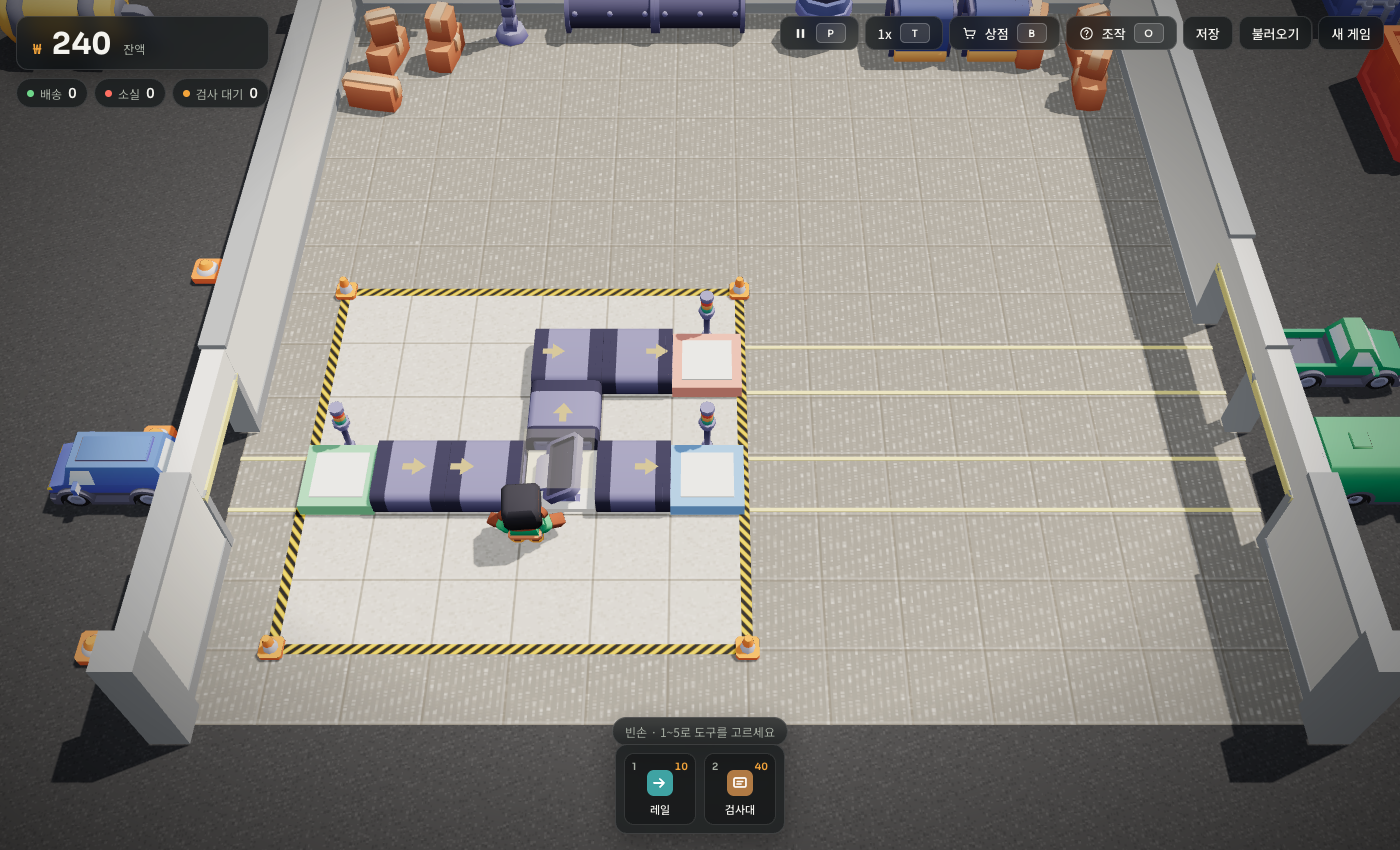
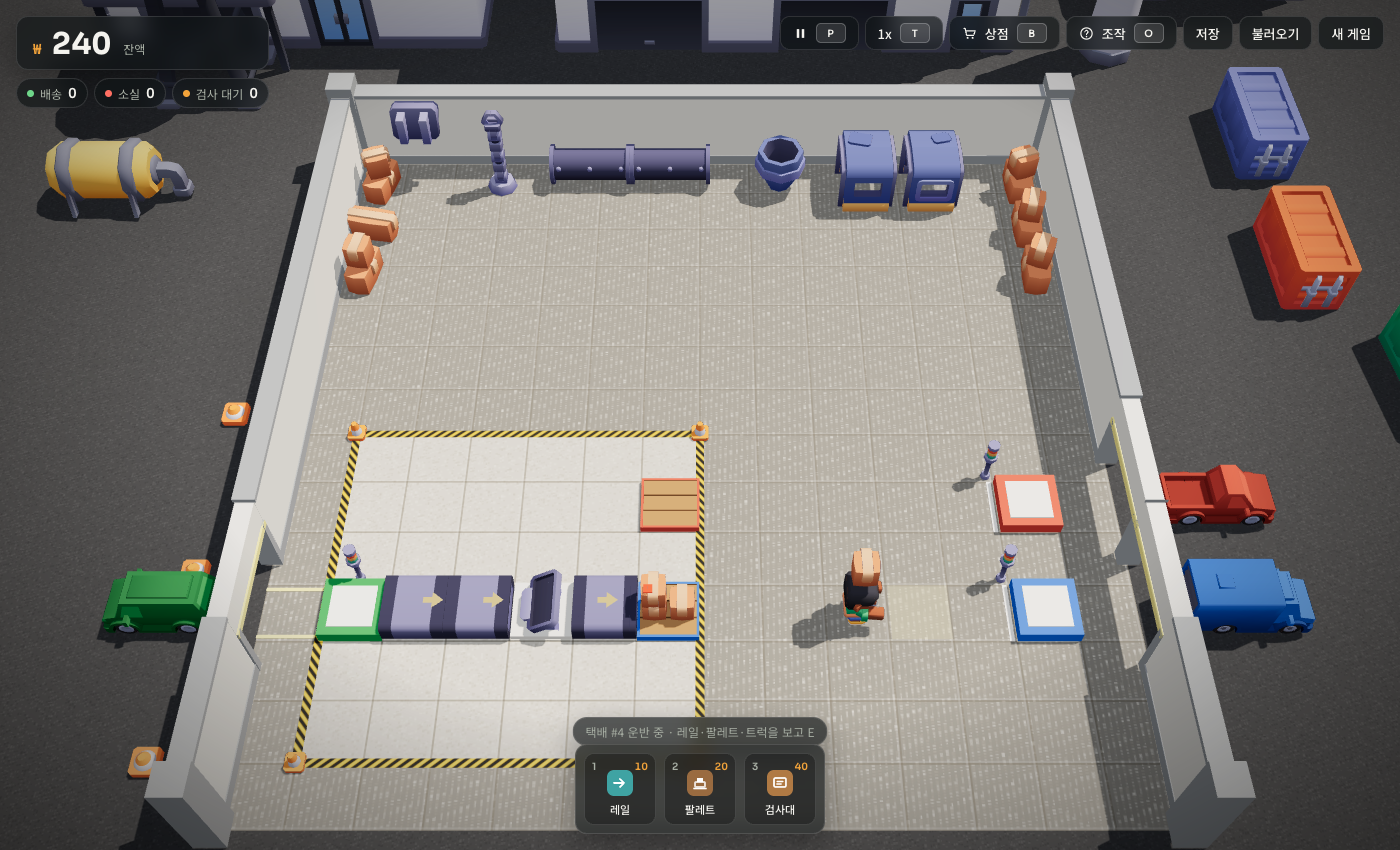
docs(design): 3D prototype follows spec 10 (pallets, truck docks, whole-building walking)
- Pallet cells (blue/red, pile max 6) at (5,2)/(5,4); rails feed into the pile, worker picks/puts with E
- Outlet/return docks moved to truck docks at (11,2)/(11,4) by the east doors; stop lines, no pallet lanes
- Worker walks the whole 12x12 (locked floor included); pallet/table/splitter/scanner block
- 6-slot hotbar (rail, fast, pallet, table, splitter, scanner); R cycles pallet colour
- Vehicles tinted to their dock colour; spec colours rendered as sRGB
- #demo matches the Unity demo scene; refreshed mockup screenshots
- Spec 3.1 now points to section 10 for dock positions

diff --git a/docs/design/prototype/parcel-factory-3d.html b/docs/design/prototype/parcel-factory-3d.html
@@ -135,9 +135,10 @@
     </div>
     <div class="panel help" id="help" hidden>
       <div><span class="k"><span class="key">W</span><span class="key">A</span><span class="key">S</span><span class="key">D</span></span>이동 · <span class="k"><span class="key">E</span></span><b>집기 · 놓기 · 설치 · 검사</b> · <span class="k"><span class="key">X</span></span>해체</div>
-      <div><span class="k"><span class="key">1</span>~<span class="key">5</span></span>도구 선택 · <span class="k"><span class="key">R</span></span>방향 · <span class="k"><span class="key">Q</span></span>빈손 · <span class="k"><span class="key">Esc</span></span>닫기</div>
-      <div>검사대 위 택배는 검사 전까지 멈춥니다. <b>정상은 출고구</b>, <b>불량은 반품구</b>로 보내세요.</div>
-      <div>입고 3초마다 1개 · 배송 +15 · 해체 2초 후 설치비 80% 환불</div>
+      <div><span class="k"><span class="key">1</span>~<span class="key">6</span></span>도구 선택 · <span class="k"><span class="key">R</span></span>방향·팔레트 색 · <span class="k"><span class="key">Q</span></span>빈손 · <span class="k"><span class="key">Esc</span></span>닫기</div>
+      <div>레일 끝 <b>팔레트</b>에 택배가 최대 6개 쌓입니다. 팔레트에서 집어 동쪽 벽의 트럭까지 나르세요 — <b>정상은 파랑 출고 트럭</b>, <b>불량(거부)은 빨강 반품 트럭</b>.</div>
+      <div>검사대 위 택배는 검사 전까지 멈춥니다. 잠긴 구역도 걸어 다닐 수 있지만 설치는 산 부지에만 됩니다. 12×12까지 넓히면 레일을 트럭에 바로 붙일 수 있습니다.</div>
+      <div>입고 3초마다 1개 · 배송 +15 · 해체 2초 후 설치비 80% 환불 · 더미가 있는 팔레트는 해체 불가</div>
       <div class="fileRow"><button class="btn" id="saveBtn2">저장</button><button class="btn" id="loadBtn2">불러오기</button><button class="btn" id="newBtn2">새 게임</button></div>
     </div>
     <div class="panel drawer" id="shop" hidden></div>
@@ -165,7 +166,7 @@
           <div class="row"><span>배송 방법</span><b id="iMethod"></b></div>
           <div class="row scale"><span>저울 실측</span><b id="iScale"></b></div>
         </div>
-        <div class="sub">표기와 실측이 다르면 거부하세요. 거부한 택배는 반품구로 보내야 합니다.</div>
+        <div class="sub">표기와 실측이 다르면 거부하세요. 거부한 택배는 빨강 반품 트럭으로 보내야 합니다.</div>
         <div class="row-btns"><button class="btn danger" id="iReject">거부</button><button class="btn ok" id="iApprove">승인</button></div>
       </div>
     </div>
@@ -190,13 +191,16 @@
   // ---------------- 게임 로직 (코어와 동일 규칙) ----------------
   const DX = { N: 0, E: 1, S: 0, W: -1 }, DY = { N: 1, E: 0, S: -1, W: 0 }, ORDER = ['N', 'E', 'S', 'W'];
   const turnR = d => ORDER[(ORDER.indexOf(d) + 1) % 4], turnL = d => ORDER[(ORDER.indexOf(d) + 3) % 4], opp = d => ORDER[(ORDER.indexOf(d) + 2) % 4];
-  const COST = { conveyor: 10, fast: 25, splitter: 60, table: 40, scanner: 120 };
-  const NAMES = { conveyor: '레일', fast: '고속 레일', splitter: '분배기', table: '검사대', scanner: '자동 검사기', inlet: '입고구', outlet: '출고구', rdock: '반품구', empty: '빈 칸', locked: '잠긴 칸' };
+  const COST = { conveyor: 10, fast: 25, pallet: 20, splitter: 60, table: 40, scanner: 120 };
+  const NAMES = { conveyor: '레일', fast: '고속 레일', pallet: '팔레트', splitter: '분배기', table: '검사대', scanner: '자동 검사기', inlet: '입고구', outlet: '출고 트럭', rdock: '반품 트럭', empty: '빈 칸', locked: '잠긴 칸' };
   const ARROWS = { N: '↑', E: '→', S: '↓', W: '←' };
-  const SLOTS = ['conveyor', 'fast', 'table', 'splitter', 'scanner'];
-  const SW = { conveyor: '#3fa3a3', fast: '#c25a66', table: '#b07a44', splitter: '#7a62c0', scanner: '#4e86e8' };
+  const SLOTS = ['conveyor', 'fast', 'pallet', 'table', 'splitter', 'scanner'];
+  const SW = { conveyor: '#3fa3a3', fast: '#c25a66', pallet: '#9a6b40', table: '#b07a44', splitter: '#7a62c0', scanner: '#4e86e8' };
+  const PALLET_CAP = 6, OUTLET_X = 11, RDOCK_X = 11; // 스펙 10.1·10.2
+  const KIND_OF_DIR = { E: 'blue', W: 'red' }, KIND_LABEL = { blue: '파랑', red: '빨강' }; // 팔레트 도구: East = 파랑, West = 빨강
+  const dirLabel = (type, dir) => type === 'pallet' ? KIND_LABEL[KIND_OF_DIR[dir]] : ARROWS[dir];
   const isTrack = c => ['conveyor', 'fast', 'splitter', 'inlet', 'table', 'scanner'].includes(c.type);
-  const isBuilding = c => ['conveyor', 'fast', 'splitter', 'table', 'scanner'].includes(c.type);
+  const isBuilding = c => ['conveyor', 'fast', 'splitter', 'table', 'scanner', 'pallet'].includes(c.type);
   const isDock = t => t === 'outlet' || t === 'rdock';
   const inBounds = (x, y) => x >= 0 && y >= 0 && x < 12 && y < 12;
   const CATALOG = [
@@ -207,16 +211,19 @@
     { id: 'splitter', name: '분배기', sub: '좌·우로 번갈아 보냅니다 · 4방향', price: 300, splitter: true }, { id: 'scanner', name: '자동 검사기', sub: '지나가면 바로 판정 · 4방향', price: 250, scanner: true },
   ];
   function cell(type, dir) { return { type, dir: dir || 'E', demolishing: false, remain: 0, toggle: false, occ: -1 }; }
+  function palletCell(kind) { const c = cell('pallet', kind === 'red' ? 'W' : 'E'); c.kind = kind; c.pile = []; return c; } // 더미: 맨 위 = 배열 끝
   function newGame() {
     const cells = [];
     for (let y = 0; y < 12; y++) { cells.push([]); for (let x = 0; x < 12; x++) cells[y].push(cell((x < 6 && y < 6) ? 'empty' : 'locked')); }
-    cells[2][0] = cell('inlet'); cells[2][5] = cell('outlet'); cells[4][5] = cell('rdock');
+    cells[2][0] = cell('inlet'); cells[2][OUTLET_X] = cell('outlet'); cells[4][RDOCK_X] = cell('rdock'); // 트럭 도크는 동쪽 벽 바로 안쪽, 잠겨 있어도 처음부터 존재
+    cells[2][5] = palletCell('blue'); cells[4][5] = palletCell('red'); // 시작 팔레트 (옛 출고구·반품구 자리)
     return { cells, packages: [], money: 100, unlocked: 6, purchased: {}, owned: { 'conveyor:E': true }, splitter: false, table: true, scanner: false, speed: 1, paused: false, timer: 0, nextId: 1, delivered: 0, lost: 0, worker: { x: 2.5, y: 4, facing: 'S', carrying: null } };
   }
-  function demoLayout(g) { // #demo — 시안 확인용 샘플 배치
+  function demoLayout(g) { // #demo — 시안 확인용 샘플 배치 (Unity 데모 장면과 같은 구성)
     g.cells[2][1] = cell('conveyor', 'E'); g.cells[2][2] = cell('conveyor', 'E'); g.cells[2][3] = cell('table', 'E'); g.cells[2][4] = cell('conveyor', 'E');
-    g.cells[3][3] = cell('conveyor', 'N'); g.cells[4][3] = cell('conveyor', 'E'); g.cells[4][4] = cell('conveyor', 'E');
-    g.worker = { x: 2.6, y: 1.2, facing: 'N', carrying: null }; g.money = 240; return g;
+    const pkg = (inspected, bad) => ({ id: g.nextId++, x: 0, y: 0, progress: 0, heading: 'E', entry: 'E', bad, inspected, rejected: inspected && bad, label: makeLabel(bad) });
+    g.cells[2][5].pile.push(pkg(true, false), pkg(true, false), pkg(true, true));
+    g.worker = { x: 8.0, y: 2.0, facing: 'E', carrying: pkg(true, false) }; g.money = 240; return g;
   }
   let S = location.hash === '#demo' ? demoLayout(newGame()) : newGame();
   const UI = { tool: null, slot: -1, lastDir: {}, pending: null, inspect: null, toastUntil: 0, dirty: new Set(), rebuildAll: true, saved: null };
@@ -269,6 +276,10 @@
       if (!inBounds(nx, ny)) { remove(i, false); i--; toast('택배가 레일 밖으로 떨어졌습니다', 'bad'); continue; }
       const next = S.cells[ny][nx];
       if (isDock(next.type)) { deliver(p, next.type); remove(i, true); i--; continue; }
+      if (next.type === 'pallet') { // 흐름에서 빠져 더미에 쌓인다(검사 상태 유지). 가득 차거나 해체 중이면 대기
+        if (next.demolishing || next.pile.length >= PALLET_CAP) continue;
+        c.occ = -1; S.packages.splice(i, 1); i--; p.progress = 0; next.pile.push(p); continue;
+      }
       if (!isTrack(next) || next.type === 'inlet') { remove(i, false); i--; toast('택배가 레일 밖으로 떨어졌습니다', 'bad'); continue; }
       if (next.occ >= 0 || next.demolishing) continue;
       c.occ = -1; next.occ = p.id; p.x = nx; p.y = ny; p.progress = 0; p.entry = p.heading; p.heading = headingFor(next, p.heading);
@@ -283,8 +294,8 @@
     }
   }
   const WALK_SPEED = 3.4, WORKER_R = 0.28; // 칸/초, 충돌 반지름(칸)
-  const walkableCell = c => c.type !== 'locked' && c.type !== 'table' && c.type !== 'scanner' && c.type !== 'splitter'; // 레일·도크 위는 걸어 다닐 수 있다
-  const walkableAt = (px, py) => { const n = S.unlocked; if (px < -0.5 + WORKER_R || py < -0.5 + WORKER_R || px > n - 0.5 - WORKER_R || py > n - 0.5 - WORKER_R) return false; for (const dx of [-WORKER_R, WORKER_R]) for (const dy of [-WORKER_R, WORKER_R]) { const cx = Math.round(px + dx), cy = Math.round(py + dy); if (!inBounds(cx, cy) || !walkableCell(S.cells[cy][cx])) return false; } return true; };
+  const walkableCell = c => c.type !== 'table' && c.type !== 'scanner' && c.type !== 'splitter' && c.type !== 'pallet'; // 레일·도크·잠긴 바닥 위는 걸어 다닐 수 있다 (스펙 10.3)
+  const walkableAt = (px, py) => { const n = 12; /* 경계 = 건물 안 격자 전체 */ if (px < -0.5 + WORKER_R || py < -0.5 + WORKER_R || px > n - 0.5 - WORKER_R || py > n - 0.5 - WORKER_R) return false; for (const dx of [-WORKER_R, WORKER_R]) for (const dy of [-WORKER_R, WORKER_R]) { const cx = Math.round(px + dx), cy = Math.round(py + dy); if (!inBounds(cx, cy) || !walkableCell(S.cells[cy][cx])) return false; } return true; };
   function moveWorker(vx, vy, dt) { // 눌린 방향으로 부드럽게 이동, 축별로 따로 충돌 처리
     const w = S.worker; const len = Math.hypot(vx, vy); if (len < 1e-6) return false;
     vx /= len; vy /= len; const step = WALK_SPEED * dt;
@@ -302,7 +313,12 @@
     const w = S.worker, f = facingTile();
     if (!inBounds(f.x, f.y)) return 'nofloor';
     const fc = S.cells[f.y][f.x];
-    if (w.carrying) { if (isDock(fc.type)) return 'deliver'; if (isTrack(fc) && fc.occ < 0 && !fc.demolishing) return 'put'; return 'cannotput'; }
+    if (w.carrying) {
+      if (isDock(fc.type)) return 'deliver';
+      if (fc.type === 'pallet' && !fc.demolishing) return fc.pile.length < PALLET_CAP ? 'palletput' : 'palletfull';
+      if (isTrack(fc) && fc.occ < 0 && !fc.demolishing) return 'put'; return 'cannotput';
+    }
+    if (fc.type === 'pallet' && fc.pile.length > 0) return 'palletpick';
     const pi = packageAt(f.x, f.y);
     if (pi >= 0) return (fc.type === 'table' && !S.packages[pi].inspected) ? 'inspect' : 'pick';
     if (!UI.tool) return 'notool';
@@ -321,10 +337,13 @@
       case 'put': { const p = w.carrying; p.x = f.x; p.y = f.y; p.progress = 0; p.heading = headingFor(fc, fc.dir); p.entry = p.heading; fc.occ = p.id; S.packages.push(p); w.carrying = null; if (fc.type === 'scanner' && !p.inspected) { p.inspected = true; p.rejected = p.bad; } break; }
       case 'inspect': UI.inspect = S.packages[packageAt(f.x, f.y)]; showInspect(); break;
       case 'pick': { const pi = packageAt(f.x, f.y); const p = S.packages[pi]; S.packages.splice(pi, 1); fc.occ = -1; w.carrying = p; break; }
-      case 'place': S.money -= COST[UI.tool.type]; S.cells[f.y][f.x] = cell(UI.tool.type, UI.tool.dir); UI.dirty.add(f.x + ',' + f.y); break;
+      case 'palletpick': w.carrying = fc.pile.pop(); break;
+      case 'palletput': { const p = w.carrying; p.progress = 0; fc.pile.push(p); w.carrying = null; break; }
+      case 'palletfull': toast('팔레트가 가득 찼습니다'); break;
+      case 'place': S.money -= COST[UI.tool.type]; S.cells[f.y][f.x] = UI.tool.type === 'pallet' ? palletCell(KIND_OF_DIR[UI.tool.dir]) : cell(UI.tool.type, UI.tool.dir); UI.dirty.add(f.x + ',' + f.y); break;
       case 'nofloor': toast('바닥이 없는 곳입니다'); break;
       case 'cannotput': toast('여기에는 내려놓을 수 없습니다'); break;
-      case 'notool': toast('도구를 고르세요 (1~5)'); break;
+      case 'notool': toast('도구를 고르세요 (1~6)'); break;
       case 'standing': toast('서 있는 자리에는 놓을 수 없습니다'); break;
       case 'locked': toast('아직 사지 않은 부지입니다 · 상점에서 확장'); break;
       case 'occupied': toast('이미 무언가 있습니다'); break;
@@ -336,8 +355,9 @@
     const c = S.cells[f.y][f.x];
     if (!isBuilding(c)) return toast('해체할 수 있는 부품이 아닙니다');
     if (c.demolishing) return toast('이미 해체 중입니다');
+    if (c.type === 'pallet' && c.pile.length > 0) return toast('팔레트를 먼저 비우세요');
     UI.pending = { x: f.x, y: f.y };
-    $('dText').textContent = NAMES[c.type] + ' ' + ARROWS[c.dir] + ' 를 해체합니다.';
+    $('dText').textContent = NAMES[c.type] + ' ' + (c.type === 'pallet' ? KIND_LABEL[c.kind] : ARROWS[c.dir]) + ' 를 해체합니다.';
     $('dRefund').textContent = '+' + Math.round(COST[c.type] * 0.8);
     $('demolish').hidden = false;
   }
@@ -354,6 +374,7 @@
     if (type === 'table') return S.table ? ORDER.slice() : [];
     if (type === 'splitter') return S.splitter ? ORDER.slice() : [];
     if (type === 'scanner') return S.scanner ? ORDER.slice() : [];
+    if (type === 'pallet') return ['E', 'W']; // 시작부터 보유: 파랑(E)·빨강(W)
     return ORDER.filter(d => S.owned[type + ':' + d]);
   }
   const availableSlots = () => SLOTS.filter(t => ownedDirs(t).length > 0);
@@ -377,6 +398,7 @@
     conveyor: '<svg viewBox="0 0 16 16"><path d="M2 8h9M8 4l4 4-4 4" fill="none" stroke="#fff" stroke-width="2" stroke-linecap="round" stroke-linejoin="round"/></svg>',
     fast: '<svg viewBox="0 0 16 16"><path d="M1 8h6M6 4l4 4-4 4M8 4l4 4-4 4" fill="none" stroke="#fff" stroke-width="2" stroke-linecap="round" stroke-linejoin="round"/></svg>',
     table: '<svg viewBox="0 0 16 16"><rect x="2" y="3" width="12" height="9" rx="1.5" fill="none" stroke="#fff" stroke-width="1.8"/><path d="M5 6.5h6M5 9h4" stroke="#fff" stroke-width="1.6" stroke-linecap="round"/></svg>',
+    pallet: '<svg viewBox="0 0 16 16"><rect x="3" y="7" width="10" height="5" rx="1" fill="none" stroke="#fff" stroke-width="1.6"/><path d="M2 13.5h12" stroke="#fff" stroke-width="1.6" stroke-linecap="round"/><rect x="5" y="3" width="6" height="4" rx="0.8" fill="#fff"/></svg>',
     splitter: '<svg viewBox="0 0 16 16"><path d="M2 8h5l4-4M7 8l4 4" fill="none" stroke="#fff" stroke-width="2" stroke-linecap="round" stroke-linejoin="round"/></svg>',
     scanner: '<svg viewBox="0 0 16 16"><path d="M3 12V5a2 2 0 0 1 2-2h6a2 2 0 0 1 2 2v7" fill="none" stroke="#fff" stroke-width="1.8"/><path d="M5 8h6" stroke="#ff6b6b" stroke-width="2" stroke-linecap="round"/></svg>',
   };
@@ -388,8 +410,8 @@
       const on = UI.slot === i && UI.tool;
       const b = document.createElement('button'); b.className = 'slot' + (on ? ' on' : '');
       const dirs = ownedDirs(type);
-      b.innerHTML = '<span class="k">' + (i + 1) + '</span><span class="c">' + COST[type] + '</span><span class="ico" style="background:' + SW[type] + '">' + ICONS[type] + '</span><span>' + NAMES[type] + '</span><span class="d">' + (on ? ARROWS[UI.tool.dir] : (dirs.length > 1 ? 'R' : ARROWS[dirs[0]])) + '</span>';
-      b.title = NAMES[type] + ' · ' + (dirs.length > 1 ? 'R로 방향 전환' : '방향 ' + ARROWS[dirs[0]]);
+      b.innerHTML = '<span class="k">' + (i + 1) + '</span><span class="c">' + COST[type] + '</span><span class="ico" style="background:' + SW[type] + '">' + ICONS[type] + '</span><span>' + NAMES[type] + '</span><span class="d">' + (on ? dirLabel(type, UI.tool.dir) : (dirs.length > 1 ? 'R' : dirLabel(type, dirs[0]))) + '</span>';
+      b.title = NAMES[type] + ' · ' + (type === 'pallet' ? 'R로 파랑/빨강 전환' : dirs.length > 1 ? 'R로 방향 전환' : '방향 ' + ARROWS[dirs[0]]);
       b.addEventListener('click', () => selectSlot(i)); bar.appendChild(b);
     });
   }
@@ -409,7 +431,7 @@
   $('iApprove').addEventListener('click', () => { if (UI.inspect) { UI.inspect.inspected = true; UI.inspect.rejected = false; } UI.inspect = null; $('inspect').hidden = true; });
   $('iReject').addEventListener('click', () => { if (UI.inspect) { UI.inspect.inspected = true; UI.inspect.rejected = true; } UI.inspect = null; $('inspect').hidden = true; });
   $('dCancel').addEventListener('click', () => { UI.pending = null; $('demolish').hidden = true; });
-  $('dConfirm').addEventListener('click', () => { if (UI.pending) { const c = S.cells[UI.pending.y][UI.pending.x]; if (isBuilding(c)) { c.demolishing = true; c.remain = 2; UI.dirty.add(UI.pending.x + ',' + UI.pending.y); } } UI.pending = null; $('demolish').hidden = true; });
+  $('dConfirm').addEventListener('click', () => { if (UI.pending) { const c = S.cells[UI.pending.y][UI.pending.x]; if (isBuilding(c) && !(c.type === 'pallet' && c.pile.length)) { c.demolishing = true; c.remain = 2; UI.dirty.add(UI.pending.x + ',' + UI.pending.y); } } UI.pending = null; $('demolish').hidden = true; });
   $('pauseBtn').addEventListener('click', () => { S.paused = !S.paused; });
   $('speedBtn').addEventListener('click', () => { S.speed = S.speed === 1 ? 2 : 1; });
   $('shopBtn').addEventListener('click', () => { $('shop').hidden = !$('shop').hidden; $('help').hidden = true; renderShop(); });
@@ -431,7 +453,7 @@
     if (KEYDIR[k]) { e.preventDefault(); held.add(k); return; }
     if (k === 'e') act(); else if (k === 'x') askDemolish(); else if (k === 'q') clearTool(); else if (k === 'r') rotateTool();
     else if (k === 'p') $('pauseBtn').click(); else if (k === 't') $('speedBtn').click(); else if (k === 'b') $('shopBtn').click(); else if (k === 'o') $('helpBtn').click();
-    else if (/^[1-5]$/.test(k)) selectSlot(parseInt(k, 10) - 1);
+    else if (/^[1-6]$/.test(k)) selectSlot(parseInt(k, 10) - 1);
   });
 
   // ---------------- 3D ----------------
@@ -446,10 +468,10 @@
   const scene = new THREE.Scene(); scene.background = new THREE.Color(0x1d2127); scene.fog = new THREE.Fog(0x1d2127, 24, 46);
   const camera = new THREE.PerspectiveCamera(36, 1, 0.1, 100);
   const camDir = new THREE.Vector3(0, 14.5, -10.5).normalize(), camPos = new THREE.Vector3(), camTarget = new THREE.Vector3(), camLook = new THREE.Vector3();
-  function frameLot(snap) { // 해금된 부지 + 도크 차량이 화면에 들어오도록 카메라를 잡는다
-    const n = S.unlocked, a = camera.aspect || 1, t = Math.tan(camera.fov * Math.PI / 360);
-    const hw = n / 2 + 5.0, hv = n / 2 + 2.8, dist = Math.max(hw / (t * a), hv / t) * 1.04;
-    camTarget.set((W(0) + W(n - 1)) / 2 * 0.2, 0, (Z(0) + Z(n - 1)) / 2 + 0.5); camPos.copy(camTarget).addScaledVector(camDir, dist);
+  function frameLot(snap) { // 건물 안 12×12 전체(작업자는 잠긴 구역도 걷는다) + 양쪽 벽 밖 차량이 화면에 들어오도록 카메라를 잡는다
+    const n = 12, a = camera.aspect || 1, t = Math.tan(camera.fov * Math.PI / 360);
+    const hw = n / 2 + 3.4, hv = n / 2 + 1.2, dist = Math.max(hw / (t * a), hv / t) * 1.04;
+    camTarget.set(0, 0, 0.2); camPos.copy(camTarget).addScaledVector(camDir, dist);
     scene.fog.near = dist + 6; scene.fog.far = dist + 30;
     if (snap) { camera.position.copy(camPos); camLook.copy(camTarget); camera.lookAt(camLook); }
   }
@@ -458,6 +480,7 @@
   sun.shadow.mapSize.set(4096, 4096); sun.shadow.camera.left = -15; sun.shadow.camera.right = 15; sun.shadow.camera.top = 15; sun.shadow.camera.bottom = -15; sun.shadow.camera.near = 1; sun.shadow.camera.far = 50; sun.shadow.bias = -0.0004; sun.shadow.normalBias = 0.03; sun.shadow.radius = 2;
   scene.add(sun);
   const W = gx => 5.5 - gx, Z = gy => gy - 5.5;   // 격자 → 월드. 카메라가 -z에서 +z를 보므로 화면 오른쪽 = -x. 동쪽(gx+)이 오른쪽이 되도록 x를 뒤집는다. 북쪽(gy+) = +z = 화면 위
+  const srgb = hex => new THREE.Color(hex).convertSRGBToLinear(); // 스펙 색(sRGB hex)을 그대로 보이게
   const lit = (color, o) => new THREE.MeshStandardMaterial(Object.assign({ color, roughness: 0.9, metalness: 0 }, o || {}));
   const PALETTE = { grass: 0x5f9c48, leafsGreen: 0x4e9640, leafsDark: 0x3c7d4b, wood: 0xb98a5c, woodDark: 0x8c5f40, woodBark: 0x8a5a3c, woodBarkDark: 0x7d5238, dirt: 0xa27c5a, woodInner: 0xe6d0ad, _defaultMat: 0xd8d3c6 }; // nature-kit 민트 팔레트를 공장 톤에 맞게 재채색
   function shadowify(obj) { obj.traverse(o => { if (o.isMesh) { o.castShadow = true; o.receiveShadow = true; if (o.material && o.material.isMeshBasicMaterial) { const b = o.material, c = PALETTE[b.name]; o.material = new THREE.MeshStandardMaterial({ color: c !== undefined ? c : b.color, map: b.map, vertexColors: c !== undefined ? false : b.vertexColors, roughness: 0.95, metalness: 0 }); } if (o.material && o.material.map) o.material.map.encoding = THREE.sRGBEncoding; } }); return obj; }
@@ -524,24 +547,38 @@
     prop('screen-hanging-wide', 1.0, Math.PI, 5.6, HALF - 0.5).position.y = 1.0;
     // 임대 전 구역에 쌓인 재고 (12×12 밖 여백·잠긴 영역 느낌)
     let seed = 7; const rnd = () => { seed = (seed * 9301 + 49297) % 233280; return seed / 233280; };
-    for (const [x, z] of [[-6.2, 5.6], [-5.2, 5.7], [-6.1, 4.6], [6.1, 5.5], [6.2, 4.4], [5.1, 5.6]]) { const k = ['box-large', 'box-wide', 'box-long'][Math.floor(rnd() * 3)]; prop(k, 0.9, rnd() * 0.6 - 0.3, x, z); if (rnd() < 0.5) prop('box-small', 0.9, rnd() * 1.5, x, z).position.y = 0.5; }
+    for (const [x, z] of [[-6.4, 6.1], [-6.4, 4.9], [-6.4, 3.7], [6.4, 6.1], [6.4, 4.9], [6.4, 3.7]]) { const k = ['box-large', 'box-wide', 'box-long'][Math.floor(rnd() * 3)]; prop(k, 0.9, rnd() * 0.6 - 0.3, x, z); if (rnd() < 0.5) prop('box-small', 0.9, rnd() * 1.5, x, z).position.y = 0.5; }
     // 야드: 컨테이너, 급수탑, 굴뚝, 멀리 건물 실루엣
     prop('shipping-container-a', 3.0, 0, -11.5, 4.0); prop('shipping-container-b', 3.0, 0, -11.5, 7.5); prop('shipping-container-c', 3.0, 0.08, -13.2, 1.2);
     prop('water-tower', 2.6, 0, 10.5, 9.5); prop('detail-tank', 3.0, 0, 11.5, 6.0); prop('chimney-medium', 2.6, 0, -9.0, 10.5);
     prop('building-a', 5.0, 0, -2.0, 13.5); prop('building-c', 5.0, 0, 8.0, 14.2); prop('building-h', 5.0, 0, -10.0, 14.0);
     for (let i = 0; i < 6; i++) prop('cone-flat', 0.9, 0, HALF + 1.2 + i * 0.0, -HALF + 1 + i * 1.6).visible = i % 2 === 0;
-    // 도크: 슬래브 + 출입구 밖에 세워 둔 차량 + 도크→출입구 차선
-    dock(0, 2, 0x3fa35a, 'van', HALF + 1.5, Z(2), Math.PI / 2);
-    dock(5, 2, 0x3d7be0, 'delivery', -HALF - 1.6, Z(2), -Math.PI / 2);
-    dock(5, 4, 0xd95a4a, 'truck', -HALF - 1.6, Z(4), -Math.PI / 2);
+    // 도크: 슬래브 + 출입구 밖에 세워 둔 차량(차체 색 = 도크 색). 입고구만 출입구까지 차선, 트럭 도크는 서쪽 가장자리에 흰 정지선
+    dock(0, 2, 0x3fa35a, 'van', HALF + 1.5, Z(2), Math.PI / 2, true);
+    dock(OUTLET_X, 2, 0x3d7be0, 'delivery', -HALF - 1.6, Z(2), -Math.PI / 2, false);
+    dock(RDOCK_X, 4, 0xd95a4a, 'truck', -HALF - 1.6, Z(4), -Math.PI / 2, false);
   }
-  function dock(gx, gy, color, vehicle, vx, vz, vyaw) {
-    const slab = box(1, 0.22, 1, lit(color, { roughness: 0.6 }), W(gx), 0.11, Z(gy)); scene.add(slab);
+  function tintVehicle(v, color) { // 가장 큰 메시(차체)의 재질을 복제해 도크 색을 입힌다
+    let best = null, bestN = -1;
+    v.traverse(o => { if (o.isMesh && o.geometry && o.geometry.attributes.position) { const n = o.geometry.attributes.position.count; if (n > bestN) { bestN = n; best = o; } } });
+    if (!best) return; const m = best.material.clone(); m.color = srgb(color);
+    const img = m.map && m.map.image; // 색 지도를 흑백으로 바꿔야 원래 차체 색과 섞이지 않는다
+    if (img && img.width) { try {
+      const cv = document.createElement('canvas'); cv.width = img.width; cv.height = img.height; const g = cv.getContext('2d'); g.drawImage(img, 0, 0);
+      const d = g.getImageData(0, 0, cv.width, cv.height), a = d.data;
+      for (let i = 0; i < a.length; i += 4) { const l = Math.min(255, (0.299 * a[i] + 0.587 * a[i + 1] + 0.114 * a[i + 2]) * 1.5); a[i] = a[i + 1] = a[i + 2] = l; }
+      g.putImageData(d, 0, 0); const t = new THREE.CanvasTexture(cv); t.flipY = m.map.flipY; t.wrapS = m.map.wrapS; t.wrapT = m.map.wrapT; t.encoding = THREE.sRGBEncoding; t.magFilter = m.map.magFilter; t.minFilter = m.map.minFilter; m.map = t;
+    } catch (e) { console.warn('tint texture', e); } }
+    best.material = m;
+  }
+  function dock(gx, gy, color, vehicle, vx, vz, vyaw, lanes) {
+    const slab = box(1, 0.22, 1, lit(srgb(color), { roughness: 0.6 }), W(gx), 0.11, Z(gy)); scene.add(slab);
     const mark = box(0.72, 0.02, 0.72, lit(0xf5f0e6, { roughness: 0.8 }), W(gx), 0.23, Z(gy)); scene.add(mark);
-    const v = make(vehicle, 0.64, vyaw); v.position.set(vx, 0, vz); scene.add(v);
-    const cone = make('warning-traffic', 0.6, 0); cone.position.set(W(gx), 0, Z(gy) + 0.62); scene.add(cone);
-    const doorX = vx > 0 ? HALF : -HALF, x0 = W(gx) + (vx > 0 ? 0.5 : -0.5); // 도크 칸 가장자리 → 출입구까지 바닥 차선
-    if (Math.abs(doorX - x0) > 0.2) { const len = Math.abs(doorX - x0), cx = (doorX + x0) / 2; scene.add(box(len, 0.012, 0.06, laneMat, cx, 0.0, Z(gy) - 0.42)); scene.add(box(len, 0.012, 0.06, laneMat, cx, 0.0, Z(gy) + 0.42)); }
+    const v = make(vehicle, 0.64, vyaw); v.position.set(vx, 0, vz); tintVehicle(v, color); scene.add(v);
+    const cone = make('warning-traffic', 0.6, 0); cone.position.set(W(gx) + (vx > 0 ? 0 : 0.62), 0, Z(gy) + 0.62); scene.add(cone);
+    const doorX = vx > 0 ? HALF : -HALF, x0 = W(gx) + (vx > 0 ? 0.5 : -0.5);
+    if (lanes && Math.abs(doorX - x0) > 0.2) { const len = Math.abs(doorX - x0), cx = (doorX + x0) / 2; scene.add(box(len, 0.012, 0.06, laneMat, cx, 0.0, Z(gy) - 0.42)); scene.add(box(len, 0.012, 0.06, laneMat, cx, 0.0, Z(gy) + 0.42)); }
+    if (!lanes) scene.add(box(0.08, 0.014, 1.0, lit(0xf5f3ee, { roughness: 0.7 }), W(gx) + 0.58, 0.0, Z(gy))); // 서쪽(+x) 가장자리 정지선
   }
   let lotGroup = null;
   function rebuildLot() {
@@ -557,6 +594,7 @@
   }
   const cellObjs = new Map(), objLayer = new THREE.Group(); scene.add(objLayer);
   const arrows = [];
+  const palletWood = lit(srgb(0xb98a5c), { roughness: 0.95 }), palletSlat = lit(srgb(0x6b4a2e), { roughness: 1 }), palletBlue = lit(srgb(0x3d7be0), { roughness: 0.6 }), palletRed = lit(srgb(0xd95a4a), { roughness: 0.6 });
   function cellMesh(c) {
     if (!isBuilding(c)) return null;
     const g = new THREE.Group(); const yaw = yawOf(c.dir);
@@ -570,6 +608,12 @@
       g.add(make('conveyor-junction-t', 1, yaw + JUNCTION_YAW));
     } else if (c.type === 'table') {
       g.add(box(0.96, 0.08, 0.96, concreteMat, 0, 0.08, 0)); const t = make('screen-panel-flat', 0.8, yaw); g.add(t);
+    } else if (c.type === 'pallet') { // 나무 팔레트 + 종류 색 테두리. 쌓인 상자는 매 프레임 더미에서 그린다
+      g.add(box(0.9, 0.12, 0.9, palletWood, 0, 0.06, 0));
+      for (const dz of [-0.3, 0, 0.3]) { const gap = box(0.9, 0.006, 0.025, palletSlat, 0, 0.123, dz + 0.15); gap.castShadow = false; g.add(gap); }
+      const band = c.kind === 'red' ? palletRed : palletBlue, t = 0.04;
+      g.add(box(0.98, 0.13, t, band, 0, 0.065, 0.47)); g.add(box(0.98, 0.13, t, band, 0, 0.065, -0.47));
+      g.add(box(t, 0.13, 0.9, band, 0.47, 0.065, 0)); g.add(box(t, 0.13, 0.9, band, -0.47, 0.065, 0));
     }
     return g;
   }
@@ -581,7 +625,8 @@
   }
   function rebuildAll() { rebuildLot(); for (let y = 0; y < 12; y++) for (let x = 0; x < 12; x++) rebuildCell(x, y); }
   const parcelObjs = new Map(), parcelLayer = new THREE.Group(); scene.add(parcelLayer);
-  function parcelMesh() { const g = new THREE.Group(); g.add(make('box-small', 0.8, 0)); const stamp = box(0.14, 0.02, 0.14, lit(0xc9472f, { emissive: 0xc9472f, emissiveIntensity: 0.8 }), 0.1, 0.46, 0.08); stamp.name = 'stamp'; stamp.visible = false; g.add(stamp); return g; }
+  const pileObjs = new Map(), PILE_Y = [0.12, 0.52, 0.92];
+  function parcelMesh() { const g = new THREE.Group(); g.add(make('box-small', 0.8, 0)); const stamp = box(0.14, 0.02, 0.14, lit(srgb(0xc9472f), { emissive: srgb(0xc9472f), emissiveIntensity: 0.5 }), 0.1, 0.46, 0.08); stamp.name = 'stamp'; stamp.visible = false; g.add(stamp); return g; }
   const surface = t => t === 'table' ? 0.6 : t === 'inlet' ? 0.22 : 0.4;
   const worker = new THREE.Group(); scene.add(worker);
   let carried, cursor, mixer = null, actions = {}, curAction = null;
@@ -637,6 +682,14 @@
       m.position.set(W(p.x + DX[dir] * off), surface(S.cells[p.y][p.x].type), Z(p.y + DY[dir] * off)); m.rotation.y = yawOf(dir); m.getObjectByName('stamp').visible = p.inspected && p.rejected;
     }
     for (const [id, m] of parcelObjs) if (!seen.has(id)) { parcelLayer.remove(m); parcelObjs.delete(id); }
+    for (let y = 0; y < 12; y++) for (let x = 0; x < 12; x++) { // 팔레트 더미: 층당 2개, 최대 3층 (레일 위 상자와 같은 크기)
+      const c = S.cells[y][x], key = x + ',' + y, pile = c.type === 'pallet' ? c.pile : null; let arr = pileObjs.get(key);
+      if (!pile || !pile.length) { if (arr) { arr.forEach(m => parcelLayer.remove(m)); pileObjs.delete(key); } continue; }
+      if (!arr) { arr = []; pileObjs.set(key, arr); }
+      while (arr.length < pile.length) { const m = parcelMesh(); parcelLayer.add(m); arr.push(m); }
+      while (arr.length > pile.length) parcelLayer.remove(arr.pop());
+      pile.forEach((p, i) => { const m = arr[i]; m.position.set(W(x) + (i % 2 ? -0.22 : 0.22), PILE_Y[Math.floor(i / 2)], Z(y)); m.rotation.y = Math.PI / 2; /* 좁은 면(0.4)이 x축 → 2개가 겹치지 않음 */ m.getObjectByName('stamp').visible = p.inspected && p.rejected; });
+    }
     const w = S.worker; const modal = !$('inspect').hidden || !$('demolish').hidden;
     const [ivx, ivy] = modal ? [0, 0] : inputVector(); const moving = moveWorker(ivx, ivy, dt);
     worker.position.set(W(w.x), 0, Z(w.y));
@@ -644,16 +697,16 @@
     if (mixer) { playAnim(moving ? 'walk' : (w.carrying ? 'holding-both' : 'idle')); mixer.update(dt); } else { bob = moving ? bob + dt * 14 : 0; if (worker.children[0]) worker.children[0].position.y = moving ? Math.abs(Math.sin(bob)) * 0.05 : 0; }
     carried.visible = !!w.carrying; if (w.carrying) carried.getObjectByName('stamp').visible = w.carrying.inspected && w.carrying.rejected;
     const f = facingTile(); const fc = inBounds(f.x, f.y) ? S.cells[f.y][f.x] : null;
-    cursor.visible = !!fc && fc.type !== 'locked';
-    if (cursor.visible) { const h = (isBuilding(fc) || isDock(fc.type) || fc.type === 'inlet') ? surface(fc.type) : 0; cursor.position.set(W(f.x), 0.03 + h, Z(f.y)); cursor.material.opacity = 0.22 + 0.14 * Math.sin(now / 170); }
+    cursor.visible = !!fc;
+    if (cursor.visible) { const h = fc.type === 'pallet' ? 0.13 + Math.ceil(fc.pile.length / 2) * 0.4 : (isBuilding(fc) || isDock(fc.type) || fc.type === 'inlet') ? surface(fc.type) : 0; cursor.position.set(W(f.x), 0.03 + h, Z(f.y)); cursor.material.opacity = 0.32 + 0.12 * Math.sin(now / 170); }
     const r = preview(); let label = null;
-    if (r === 'pick') label = '집기'; else if (r === 'put') label = '놓기'; else if (r === 'deliver') label = fc.type === 'outlet' ? '출고' : '반품'; else if (r === 'inspect') label = '검사'; else if (r === 'place') label = NAMES[UI.tool.type] + ' 설치';
+    if (r === 'pick') label = '집기'; else if (r === 'palletpick') label = '집기 (' + fc.pile.length + ')'; else if (r === 'palletput') label = '놓기'; else if (r === 'palletfull') label = '가득 참'; else if (r === 'put') label = '놓기'; else if (r === 'deliver') label = fc.type === 'outlet' ? '출고' : '반품'; else if (r === 'inspect') label = '검사'; else if (r === 'place') label = NAMES[UI.tool.type] + ' 설치';
     const pr = $('prompt'); pr.hidden = !label;
-    if (label) { $('promptText').textContent = label; tmpV.set(W(f.x), 0.95 + (fc && isBuilding(fc) ? 0.2 : 0), Z(f.y)).project(camera); pr.style.left = ((tmpV.x + 1) / 2 * canvas.clientWidth) + 'px'; pr.style.top = ((1 - tmpV.y) / 2 * canvas.clientHeight - 14) + 'px'; }
+    if (label) { $('promptText').textContent = label; tmpV.set(W(f.x), 0.95 + (fc && fc.type === 'pallet' ? Math.ceil(fc.pile.length / 2) * 0.4 : fc && isBuilding(fc) ? 0.2 : 0), Z(f.y)).project(camera); pr.style.left = ((tmpV.x + 1) / 2 * canvas.clientWidth) + 'px'; pr.style.top = ((1 - tmpV.y) / 2 * canvas.clientHeight - 14) + 'px'; }
     for (let y = 0; y < 12; y++) for (let x = 0; x < 12; x++) { const c = S.cells[y][x], key = x + ',' + y; let bar = demoBars.get(key); if (c.demolishing) { if (!bar) { bar = box(0.8, 0.05, 0.12, lit(0xffd36a, { emissive: 0xffb84a, emissiveIntensity: 0.8 }), W(x), 1.1, Z(y)); bar.castShadow = false; scene.add(bar); demoBars.set(key, bar); } bar.scale.x = Math.max(0.02, 1 - c.remain / 2); } else if (bar) { scene.remove(bar); demoBars.delete(key); } }
     $('money').textContent = S.money; $('delivered').textContent = S.delivered; $('lost').textContent = S.lost; $('waiting').textContent = S.packages.filter(p => !p.inspected && S.cells[p.y][p.x].type === 'table').length;
     $('pauseBtn').classList.toggle('on', S.paused); $('speedLbl').textContent = S.speed + 'x'; $('speedBtn').classList.toggle('on', S.speed === 2);
-    $('workerText').textContent = w.carrying ? ('택배 #' + w.carrying.id + ' 운반 중 · 레일이나 도크를 보고 E') : (UI.tool ? NAMES[UI.tool.type] + ' ' + ARROWS[UI.tool.dir] + ' · E로 설치 · R로 방향' : '빈손 · 1~5로 도구를 고르세요');
+    $('workerText').textContent = w.carrying ? ('택배 #' + w.carrying.id + ' 운반 중 · 레일·팔레트·트럭을 보고 E') : (UI.tool ? NAMES[UI.tool.type] + ' ' + dirLabel(UI.tool.type, UI.tool.dir) + ' · E로 설치 · R로 ' + (UI.tool.type === 'pallet' ? '색' : '방향') : '빈손 · 1~6으로 도구를 고르세요');
     renderer.render(scene, camera);
   }
   loadAll(() => { resize(); frameLot(true); buildStatic(); buildWorker(); renderHotbar(); renderShop(); UI.rebuildAll = true; $('loading').hidden = true; requestAnimationFrame(frame); });

diff --git a/docs/superpowers/specs/2026-10-15-parcel-factory-design.md b/docs/superpowers/specs/2026-10-15-parcel-factory-design.md
@@ -25,9 +25,9 @@
 
 ### 3.1 그리드
 - 크기 12×12. 원점 (0,0)은 좌측 하단이며 y는 위로 증가한다. 초기 해금 영역은 x, y 모두 0 이상 6 미만인 6×6.
-- 셀 상태: `Empty`, `Conveyor(dir)`, `FastConveyor(dir)`, `Splitter(dir)`, `Inlet`, `Outlet`, `Locked`.
+- 셀 상태: `Empty`, `Conveyor(dir)`, `FastConveyor(dir)`, `Splitter(dir)`, `Inlet`, `Outlet`, `Locked`. (이후 추가: `Table`·`Scanner`·`ReturnDock`은 9절, `Pallet`은 10.2)
 - 부품이 있는 셀은 `Demolishing` 플래그와 남은 시간을 가질 수 있다 (3.3 참고).
-- 입고구는 (0,2), 출고구는 (5,2)에 고정 배치. 부지를 확장해도 위치는 바뀌지 않으며, 플레이어가 철거할 수 없다.
+- 입고구는 (0,2)에 고정 배치. 출고구·반품구는 **10.1에 따라 동쪽 벽 트럭 도크 (11,2)·(11,4)**로 옮겼고, 옛 자리 (5,2)·(5,4)에는 시작 팔레트(10.2)가 놓인다. 도크는 부지를 확장해도 위치가 바뀌지 않으며, 잠긴 구역에 있어도 처음부터 존재하고 플레이어가 철거할 수 없다.
 - 방향: `North`, `East`, `South`, `West` 4방향.
 
 ### 3.2 부품
